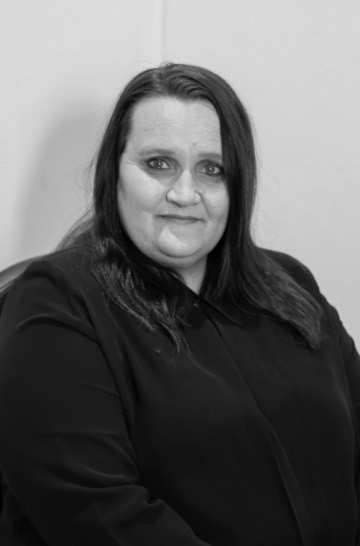
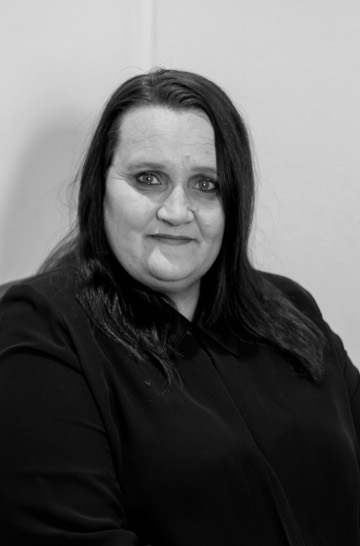
Updates to team section.
- Updated images.
- Image adjustments.

diff --git a/index.html b/index.html
@@ -117,7 +117,8 @@
                                     <li class="has-sub">
                                         <a href="elements-accordions.html" class="nav-link">2024</a>
                                         <ul class="dropdown-menu to-right">
-                                            <li><a href="the-a-b-c-of-divorce.html" class="nav-link">The A, B, C's of Divorce</a></li>
+                                            <li><a href="the-a-b-c-of-divorce.html" class="nav-link">The A, B, C's of
+                                                    Divorce</a></li>
                                         </ul>
                                     </li>
 
@@ -988,6 +989,7 @@
 
                     <div class="row">
                         <div class="col-md-1 col-12"></div>
+                        <div class="col-md-1 col-6"></div>
                         <!-- Col -->
                         <div class="slider-col first-slider col-md-2 col-12">
                             <!-- Start Team Slider - you can remove activated class if you don't want slider -->
@@ -999,8 +1001,8 @@
                                     <div class="swiper-slide">
                                         <!-- Member Image -->
                                         <div class="member">
-                                            <img src="images/team/claudette_armstrong_2023.jpg"
-                                                data-src="images/team/claudette_armstrong_2023.jpg"
+                                            <img src="images/team/claudette_inside_bw.jpg"
+                                                data-src="images/team/claudette_inside_bw.jpg"
                                                 alt="claudette armstrong picture">
                                         </div>
                                         <!-- Member Details -->
@@ -1020,8 +1022,8 @@
                                     <div class="swiper-slide">
                                         <!-- Member Image -->
                                         <div class="member">
-                                            <img src="images/team/claudette_armstrong_2023.jpg"
-                                                data-src="images/team/claudette_armstrong_2023.jpg"
+                                            <img src="images/team/claudette_inside_col.jpg"
+                                                data-src="images/team/claudette_inside_col.jpg"
                                                 alt="claudette armstrong picture">
                                         </div>
                                         <!-- Member Details -->
@@ -1052,7 +1054,8 @@
                                     <div class="swiper-slide">
                                         <!-- Member Image -->
                                         <div class="member">
-                                            <img src="images/team/team_loading.jpg" data-src="images/team/team_01.jpg"
+                                            <img src="images/team/team_loading.jpg"
+                                                data-src="images/team/jonathan_outside_bw.jpg"
                                                 alt="team member portrait">
                                         </div>
                                         <!-- Member Details -->
@@ -1072,7 +1075,8 @@
                                     <div class="swiper-slide">
                                         <!-- Member Image -->
                                         <div class="member">
-                                            <img src="images/team/team_loading.jpg" data-src="images/team/team_01-1.jpg"
+                                            <img src="images/team/team_loading.jpg"
+                                                data-src="images/team/jonathan_outside_col.jpg"
                                                 alt="team member portrait">
                                         </div>
                                         <!-- Member Details -->
@@ -1146,7 +1150,8 @@
                                         <!-- Member Image -->
                                         <div class="member">
                                             <img src="images/team/team_loading.jpg"
-                                                data-src="images/team/Adriaan_mostert.jpg" alt="team member portrait">
+                                                data-src="images/team/adriaan_outside_bw.jpg"
+                                                alt="team member portrait">
                                         </div>
                                         <!-- Member Details -->
                                         <div class="member-details">
@@ -1166,10 +1171,70 @@
                                         <!-- Member Image -->
                                         <div class="member">
                                             <img src="images/team/team_loading.jpg"
-                                                data-src="images/team/Adriaan_mostert.jpg" alt="team member portrait">
+                                                data-src="images/team/adriaan_outside_col.jpg"
+                                                alt="team member portrait">
                                         </div>
                                         <!-- Member Details -->
 
+                                    </div>
+                                    <!-- End Slide -->
+
+                                </div>
+                                <!-- End Wrapper for slides -->
+                            </div>
+                            <!-- End Team Slider -->
+                        </div>
+                        <!-- End Col -->
+
+
+
+                    </div>
+                    <br><br>
+                    <div class="row">
+                        <div class="col-md-2 col-6"></div>
+                        <div class="col-md-1 col-6"></div>
+
+<!-- Col -->
+                        <div class="slider-col second-slider col-md-2 col-12">
+                            <!-- Start Team Slider - you can remove activated class if you don't want slider -->
+                            <div class="team-slider activated">
+                                <!-- Wrapper for slides -->
+                                <div class="swiper-wrapper">
+
+                                    <!-- Slide -->
+                                    <div class="swiper-slide">
+                                        <!-- Member Image -->
+                                        <div class="member">
+                                            <img src="images/team/team_loading.jpg"
+                                                data-src="images/team/adri_inside_bw.jpg" alt="team member portrait">
+                                        </div>
+                                        <!-- Member Details -->
+                                        <div class="member-details">
+                                            <div class="texts">
+                                                <!-- Name, Position and button for modal -->
+                                                <h3 class="member-name font-secondary">ADRIANA COETZEE</h3>
+                                                <p class="member-position">LITIGATION SECRETARY</p>
+                                                <button type="button" data-toggle="modal" data-target="#adriana"
+                                                    class="more-button"><i class="ti-plus"></i></button>
+                                            </div>
+                                        </div>
+                                    </div>
+                                    <!-- End Slide -->
+
+                                    <!-- Slide -->
+                                    <div class="swiper-slide">
+                                        <!-- Member Image -->
+                                        <div class="member">
+                                            <img src="images/team/team_loading.jpg" data-src="images/team/adri_inside_col.jpg"
+                                                alt="team member portrait">
+                                        </div>
+                                        <!-- Member Details -->
+                                        <div class="member-details">
+                                            <div class="texts">
+                                                <!-- Name, Position and button for modal -->
+
+                                            </div>
+                                        </div>
                                     </div>
                                     <!-- End Slide -->
 
@@ -1192,64 +1257,7 @@
                                         <!-- Member Image -->
                                         <div class="member">
                                             <img src="images/team/team_loading.jpg"
-                                                data-src="images/team/adri_img_bw.jpg" alt="team member portrait">
-                                        </div>
-                                        <!-- Member Details -->
-                                        <div class="member-details">
-                                            <div class="texts">
-                                                <!-- Name, Position and button for modal -->
-                                                <h3 class="member-name font-secondary">ADRIANA COETZEE</h3>
-                                                <p class="member-position">LITIGATION SECRETARY</p>
-                                                <button type="button" data-toggle="modal" data-target="#adriana"
-                                                    class="more-button"><i class="ti-plus"></i></button>
-                                            </div>
-                                        </div>
-                                    </div>
-                                    <!-- End Slide -->
-
-                                    <!-- Slide -->
-                                    <div class="swiper-slide">
-                                        <!-- Member Image -->
-                                        <div class="member">
-                                            <img src="images/team/team_loading.jpg" data-src="images/team/adri_img.jpg"
-                                                alt="team member portrait">
-                                        </div>
-                                        <!-- Member Details -->
-                                        <div class="member-details">
-                                            <div class="texts">
-                                                <!-- Name, Position and button for modal -->
-
-                                            </div>
-                                        </div>
-                                    </div>
-                                    <!-- End Slide -->
-
-                                </div>
-                                <!-- End Wrapper for slides -->
-                            </div>
-                            <!-- End Team Slider -->
-                        </div>
-                        <!-- End Col -->
-
-                    </div>
-                    <br><br>
-                    <div class="row">
-                        <div class="col-md-2 col-6"></div>
-                        <div class="col-md-1 col-6"></div>
-                        
-                        <!-- Col -->
-                        <div class="slider-col second-slider col-md-2 col-12">
-                            <!-- Start Team Slider - you can remove activated class if you don't want slider -->
-                            <div class="team-slider activated">
-                                <!-- Wrapper for slides -->
-                                <div class="swiper-wrapper">
-
-                                    <!-- Slide -->
-                                    <div class="swiper-slide">
-                                        <!-- Member Image -->
-                                        <div class="member">
-                                            <img src="images/team/team_loading.jpg"
-                                                data-src="images/team/Stephanie image bw.jpeg"
+                                                data-src="images/team/Stephanie_outside_bw.jpg"
                                                 alt="team member portrait">
                                         </div>
                                         <!-- Member Details -->
@@ -1270,7 +1278,7 @@
                                         <!-- Member Image -->
                                         <div class="member">
                                             <img src="images/team/team_loading.jpg"
-                                                data-src="images/team/Stephanie_image.jpeg" alt="team member portrait">
+                                                data-src="images/team/Stephanie_outside_col.jpg" alt="team member portrait">
                                         </div>
                                         <!-- Member Details -->
                                         <div class="member-details">
@@ -1288,56 +1296,9 @@
                             <!-- End Team Slider -->
                         </div>
                         <!-- End Col -->
-                        <!-- Col -->
-                        <div class="slider-col third-slider col-md-2 col-12">
-                            <!-- Start Team Slider - you can remove activated class if you don't want slider -->
-                            <div class="team-slider activated">
-                                <!-- Wrapper for slides -->
-                                <div class="swiper-wrapper">
 
-                                    <!-- Slide -->
-                                    <div class="swiper-slide">
-                                        <!-- Member Image -->
-                                        <div class="member">
-                                            <img src="images/team/team_loading.jpg"
-                                                data-src="images/team/enya_de_kock_bw.jpg" alt="team member portrait">
-                                        </div>
-                                        <!-- Member Details -->
-                                        <div class="member-details">
-                                            <div class="texts">
-                                                <!-- Name, Position and button for modal -->
-                                                <h3 class="member-name font-secondary">ENYA DE KOCK</h3>
-                                                <p class="member-position">SECRETARY</p>
-                                                <button type="button" data-toggle="modal" data-target="#enya"
-                                                    class="more-button"><i class="ti-plus"></i></button>
-                                            </div>
-                                        </div>
-                                    </div>
-                                    <!-- End Slide -->
+                        
 
-                                    <!-- Slide -->
-                                    <div class="swiper-slide">
-                                        <!-- Member Image -->
-                                        <div class="member">
-                                            <img src="images/team/team_loading.jpg"
-                                                data-src="images/team/enya_de_kock.jpg" alt="team member portrait">
-                                        </div>
-                                        <!-- Member Details -->
-                                        <div class="member-details">
-                                            <div class="texts">
-                                                <!-- Name, Position and button for modal -->
-
-                                            </div>
-                                        </div>
-                                    </div>
-                                    <!-- End Slide -->
-
-                                </div>
-                                <!-- End Wrapper for slides -->
-                            </div>
-                            <!-- End Team Slider -->
-                        </div>
-                        <!-- End Col -->
                         <!-- Col -->
                         <div class="slider-col second-slider col-md-2 col-12">
                             <!-- Start Team Slider - you can remove activated class if you don't want slider -->
@@ -1389,7 +1350,7 @@
                             <!-- End Team Slider -->
                         </div>
                         <!-- End Col -->
-                        
+
                     </div>
 
                 </div>
@@ -2147,7 +2108,8 @@
                             <h1 class="text-uppercase font-secondary font-weight-light">ADRIAAN MOSTERT</h1>
                             <h4 class="text-uppercase font-secondary font-weight-light mt-4">Who is ADRIAAN?</h4>
                             <p class="text-secondary mt-2 paragraph">
-                                Adriaan graduated from UNISA in 2019 and is an admitted attorney of the High Court, South Africa.
+                                Adriaan graduated from UNISA in 2019 and is an admitted attorney of the High Court,
+                                South Africa.
                                 He is self-motivated, progress-driven, and has compassion for assisting our clients and
                                 avoiding future problems. His perseverance and analytical skills assist in drawing
                                 reasonable and logical conclusions.
